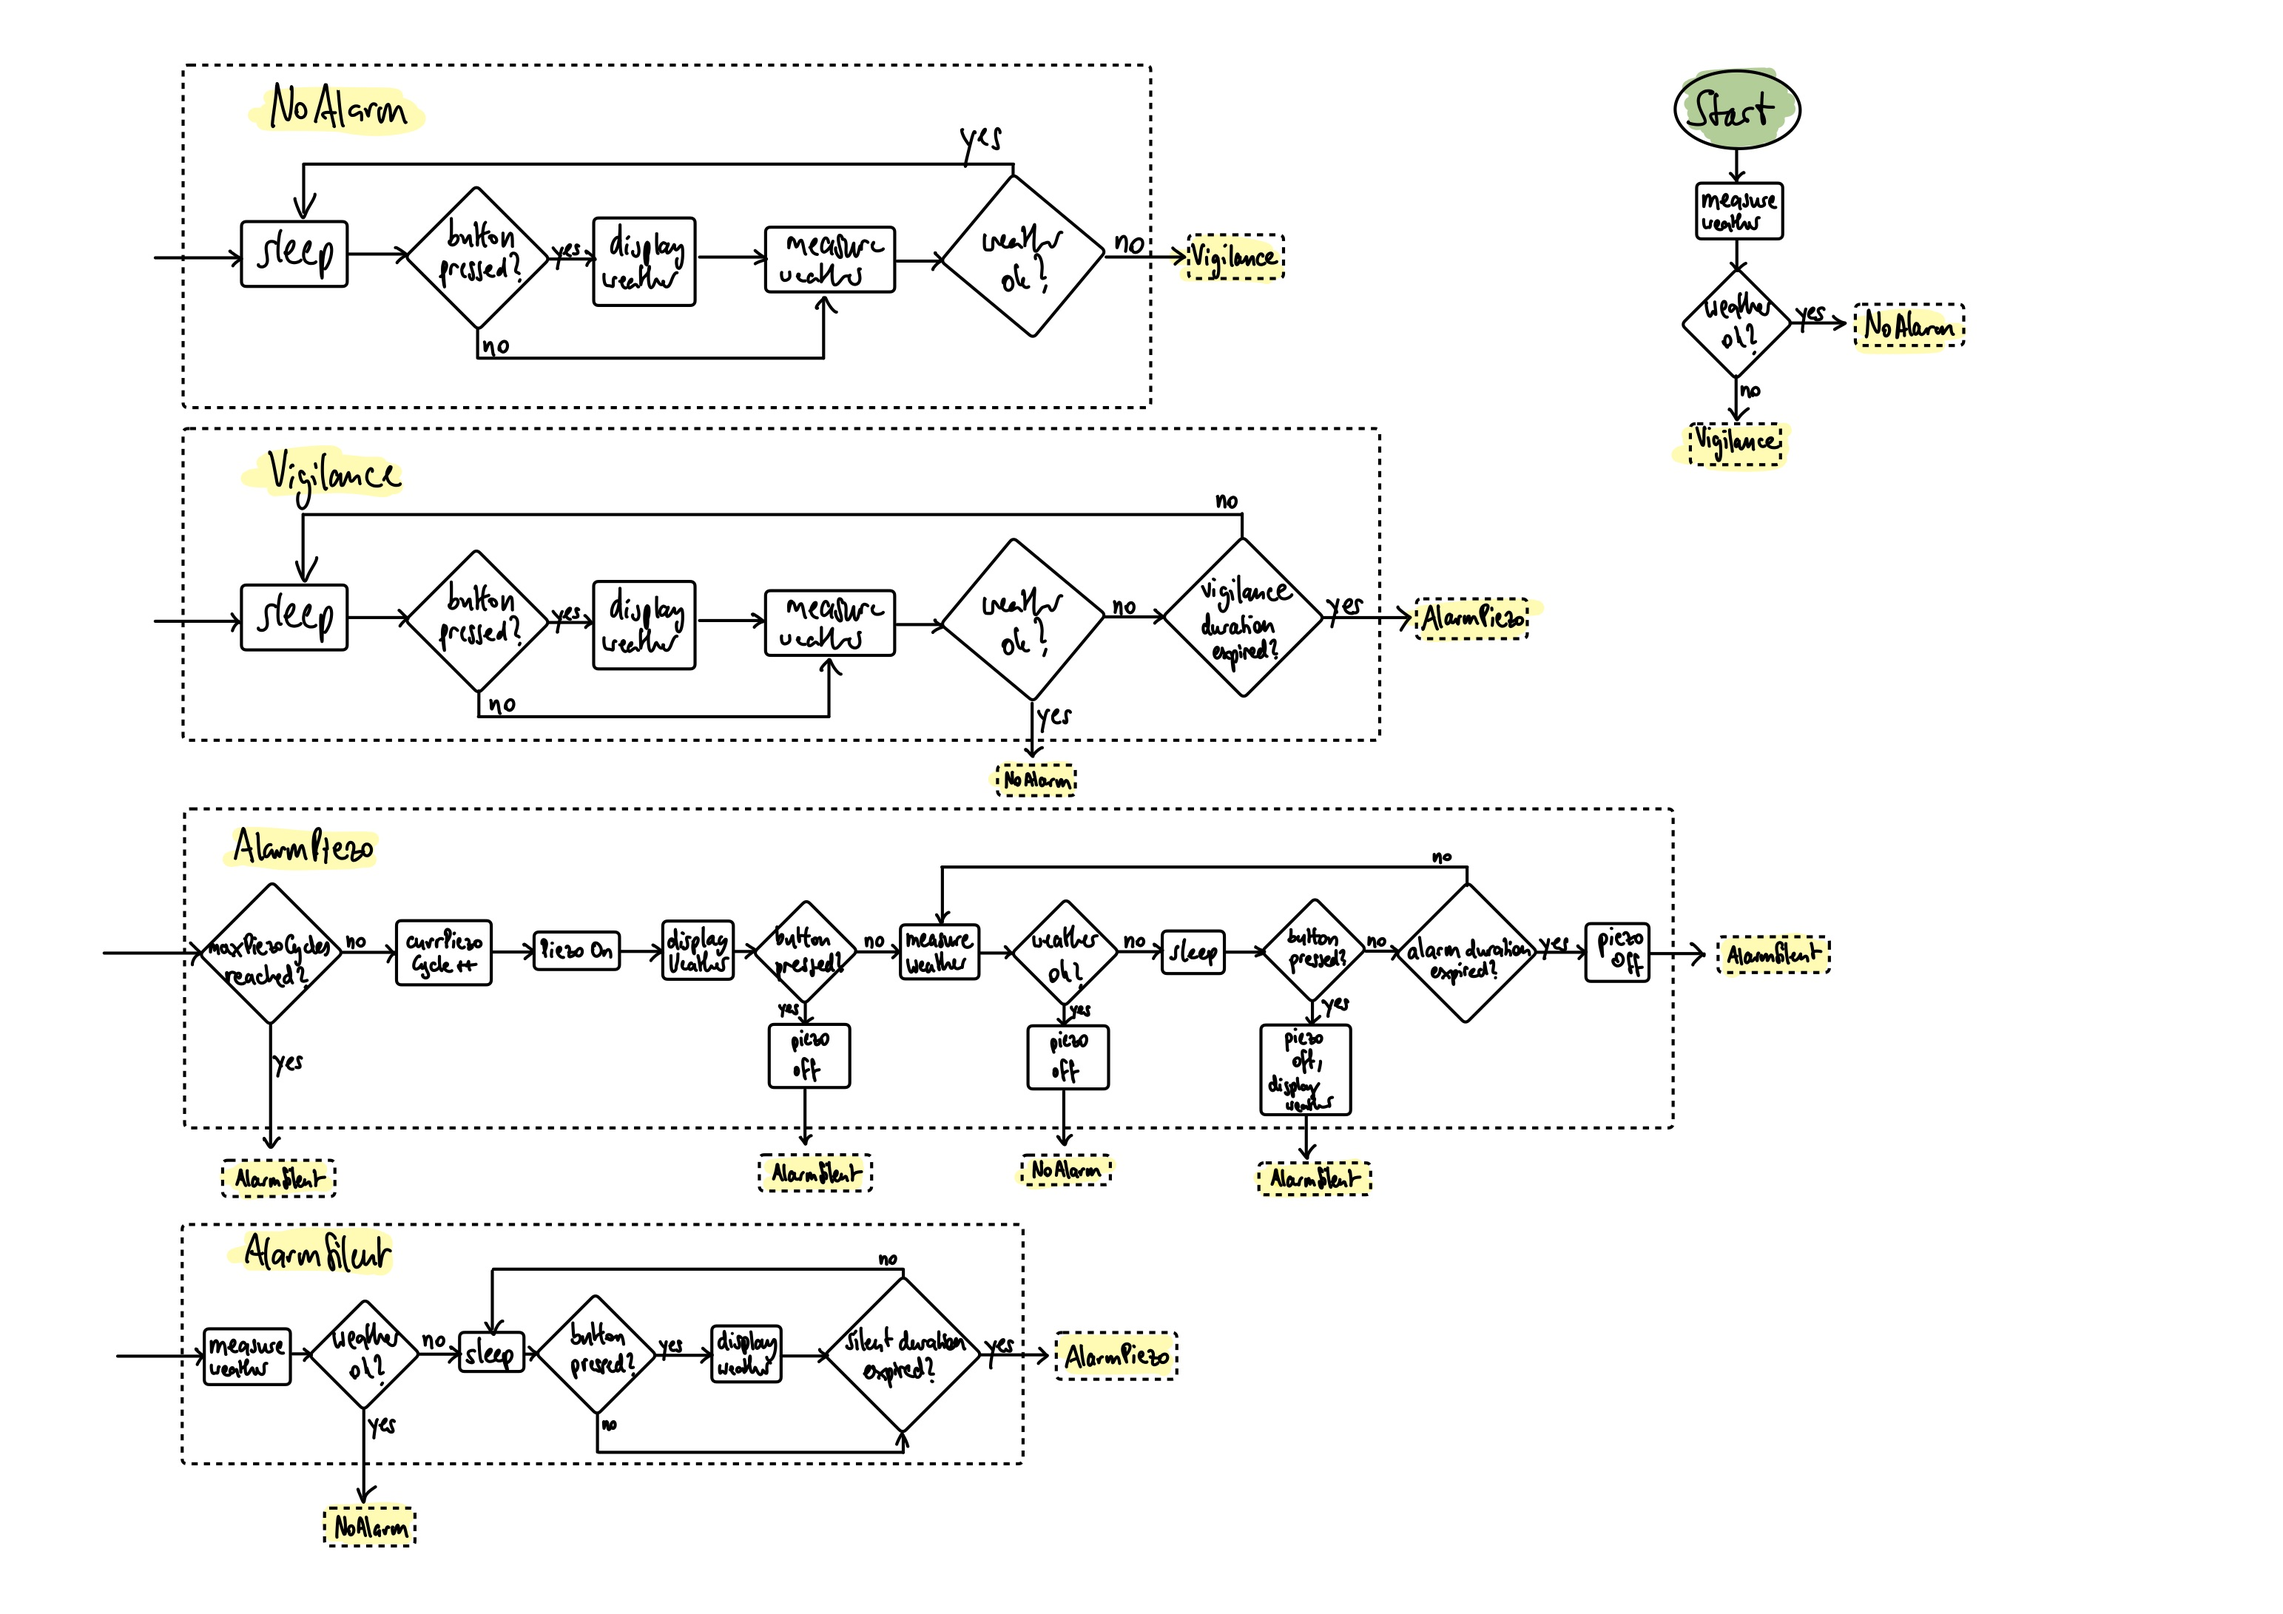
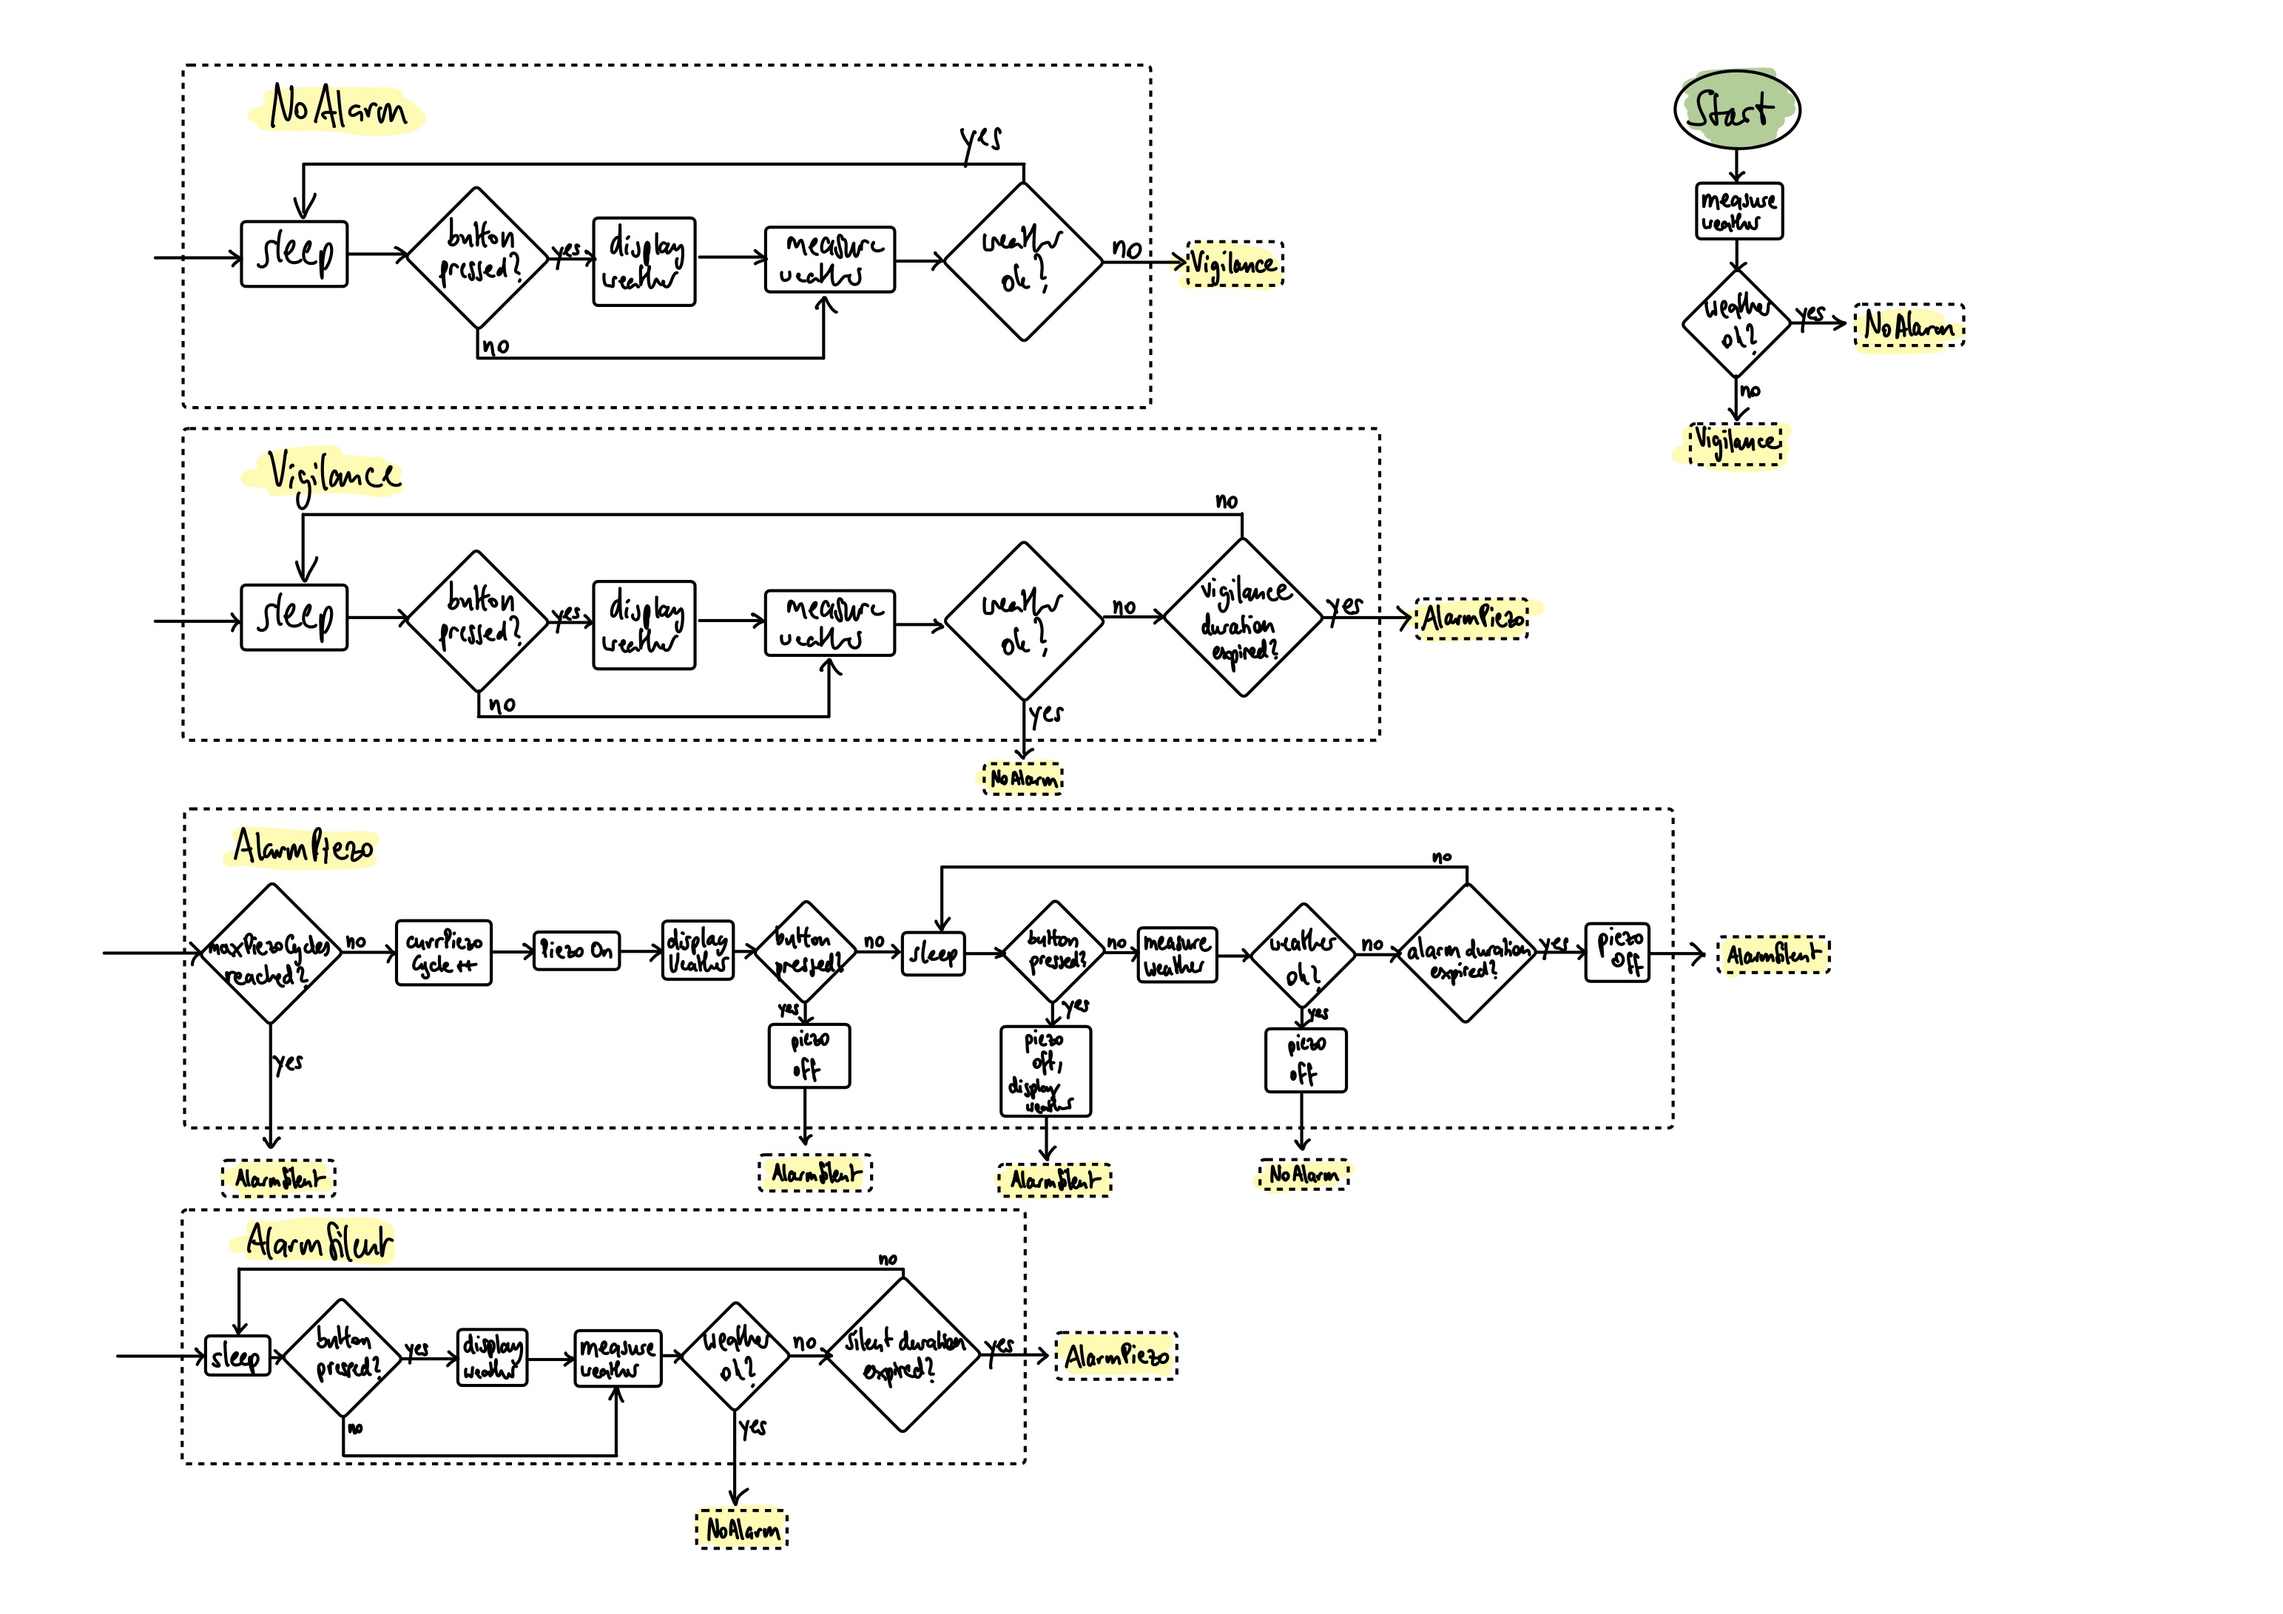
Improved code efficiency

diff --git a/README.md b/README.md
@@ -4,22 +4,21 @@ It is basically just a temperature and humidity sensoring device, but it has to 
 
 - Monitoring the air humidity in a predefined interval, e.g. every `30 s`.
 - If the humidity exceeds a given threshold, e.g. `65 %`, the device enters a vigilant state. During a set amount of time, the humidity level has to exceed the aforementioned threshold. If it drops below it, control goes back to standby. This measure is thought to prevent false alarms.
-- Otherwise, the machine enters the alarm state. This consists of a piezo buzzer that sounds for e.g. `20 s`, then the piezo buzzer shuts off and turns back on after e.g. `5 min`. This alternates for a certain number of times before the alarm remains silent because, apparently, nobody is in that room in order to ventilate it. This is useful during the night where we don't want the alarm to keep ringing until the morning.
+- Otherwise, the machine enters the alarm state. This consists of a piezo buzzer that sounds for e.g. `20 s`, then the piezo buzzer shuts off and turns back on after e.g. `5 min`. PIezo and silent alarms alternate for a certain number of times before the alarm remains silent because, apparently, nobody is in that room in order to ventilate it. This is useful during the night where we don't want the alarm to keep ringing until the morning.
 - The alarm ends after the room humidity level drops below a separate threshold that can differ from the first one, e.g. `60 %`.
-- The device is powered by 3 AAA batteries and is operational over most of their combined voltage range (3.2 to 5 V). However, very low voltages below 3.2 V (this voltage must be considered under load rather than open circuit) affect the humidity sensor in use (AM2302) in a way that an increased measurement error is introduced. In order to avoid false alarms due to low battery, a simple voltage divider leading to an ADC pin has been implemented. The divided battery voltage is then being quantized against the interior ~1.1V voltage reference and the resulting ADC value is converted back to the battery voltage. Once the battery voltage falls below a given threshold, a permanent flag `battOk = false;` is set that prevents any alarm from going off until the device is reset. On device startup, the battery voltage is measured to check the batteries' charge.
-- The device also comes with a display that shows the currently measured values, a low battery state and, in case of an ongoing alarm, also displays an alarm message.
+- The device is powered by 3 AAA batteries and is operational over most of their combined voltage range (3.2 to 5 V). However, very low voltages below 3.2 V (this voltage must be considered under load rather than open circuit) affect the humidity sensor in use (AM2302) in a way that an increased measurement error is introduced. In order to avoid false alarms due to low battery, a simple voltage divider leading to an ADC pin has been implemented. The divided battery voltage is then being quantized against the interior ~1.1V voltage reference and the resulting ADC value is converted back to the battery voltage. Once the battery voltage falls below a given threshold, a permanent flag `battOk = false;` is set that prevents any alarm from going off until the device is reset. On device startup, the battery voltage is measured to check the batteries' charge. The device won't go into alarm state if the low-battery flag is set as a caution against false alarms.
+- The device also comes with a display that shows the most recently measured values, a possible low-battery state and, in case of an ongoing alarm, also displays an alarm message.
 - A push-button switch has also been implemented that fulfills multiple purposes:
-1) It turns off the piezo buzzer, if on, momentarily until the next alarm cycle begins.
-2) It launches a temperature/humidity measurement.
-3) It launches an ADC measurement of the battery voltage.
-4) It turns on the display in order to display the measurements.
+1) It turns off the piezo buzzer, if on, until the next alarm cycle begins.
+2) It launches an ADC measurement of the battery voltage when no alarm is active.
+3) It turns on the display in order to display the measurements.
 
 ### Energy consumption
 
 Huge considerations have gone to make the device as energy efficient as possible. This, in turn, required special steps:
 - The microcontroller in use is an `Atmel ATmega 328P`. It is being used bare-bones, with its internal `8 MHz` clock source, and is directly powered by the batteries (see above).
 - Between measurements, the microcontroller is put to sleep in its deepest sleep mode: `SLEEP_MODE_PWR_DOWN`. It is being woken up after its set sleeping time by the Watchdog or after an external `INT0` interrupt that the push-button switch is connected to. The interrupt source is then identified and the device acts accordingly.
-- Because the display is the single largest current consumer in the device, it can't possibly remain on the whole time. It's only powered up after a button press for e.g. `10 s`. Then, it is shut off. However, its standby current is still too high which means that it has to be completely disconnected from the supply power. This is achieved by a GPIO pin in combination with a PNP transistor. The microcontroller only turns the transistor on when the display needs to be powered up. Also, the I2C interface is reset (`TWCR = 0;`) when powering down the screen.
+- Because the display is the single largest current consumer in the device, it can't possibly remain on the whole time. It's only powered up after a button press for e.g. `10 s`. Then, it is shut off. However, its standby current is still too high which means that it has to be completely disconnected from the power supply. This is achieved by a GPIO pin in combination with a PNP transistor. The microcontroller only turns the transistor on when the display needs to be powered up. Also, the I2C interface is reset (`TWCR = 0;`) when powering down the screen.
 - Similar considerations have been made about the humidity sensor. It only needs to be powered up during measurements. Its current consumption is low, so it can be powered directly from a GPIO pin.
 - Both display and sensor have a certain minimum start-up time that needs to be respected after being powered on. Only then they become functional.
 - The voltage divider for ADC measurements can't be permanently biased between Vcc and GND. Its 4.3 kΩ total resistance still allows a relatively high current to flow, so it needs to be switched as well. I chose to connect the GND side to a GPIO pin and to toggle it `LOW` during measurements.
@@ -34,3 +33,6 @@ With these efforts, we managed to reduce the deep-sleep total device current to 
 - If fuses need to be tweaked (e.g. set brownout detection level), there's a [useful online tool](http://eleccelerator.com/fusecalc/fusecalc.php?chip=atmega328p) to calculate fuse settings.
 - While debugging, I needed to read the MCUSR register right after startup to verify what was the cause for the reset. For this to be able to work, i.e. in order for the MCUSR register to contain valid data, it is imperative to program the microcontroller directly via ISP, because a bootloader would falsify the contents of that register. Also, I noticed that the BORF flag was always set. After some investigation, I found out that this was due to the `sleep_bod_disable()` right before sleep. So, only for debugging, I commented that line out and the MCUSR register then worked as expected.
 - What seemed to be a nasty, hard-to-trace error that hung up the device, turned out to be a simple brown-out reset when drawing too much current from the batteries: the voltage dropped because there was substantial corrosion on one battery contact. Further evidence was obtained when increasing the brown-out threshold voltage by modifying the `efuse`. This exacerbated the problem. After scraping and cleaning the contact, the problem was resolved.
+
+### Algorithm flow chart
+![Algorithm flow chart](Algorithm flow.jpg)
